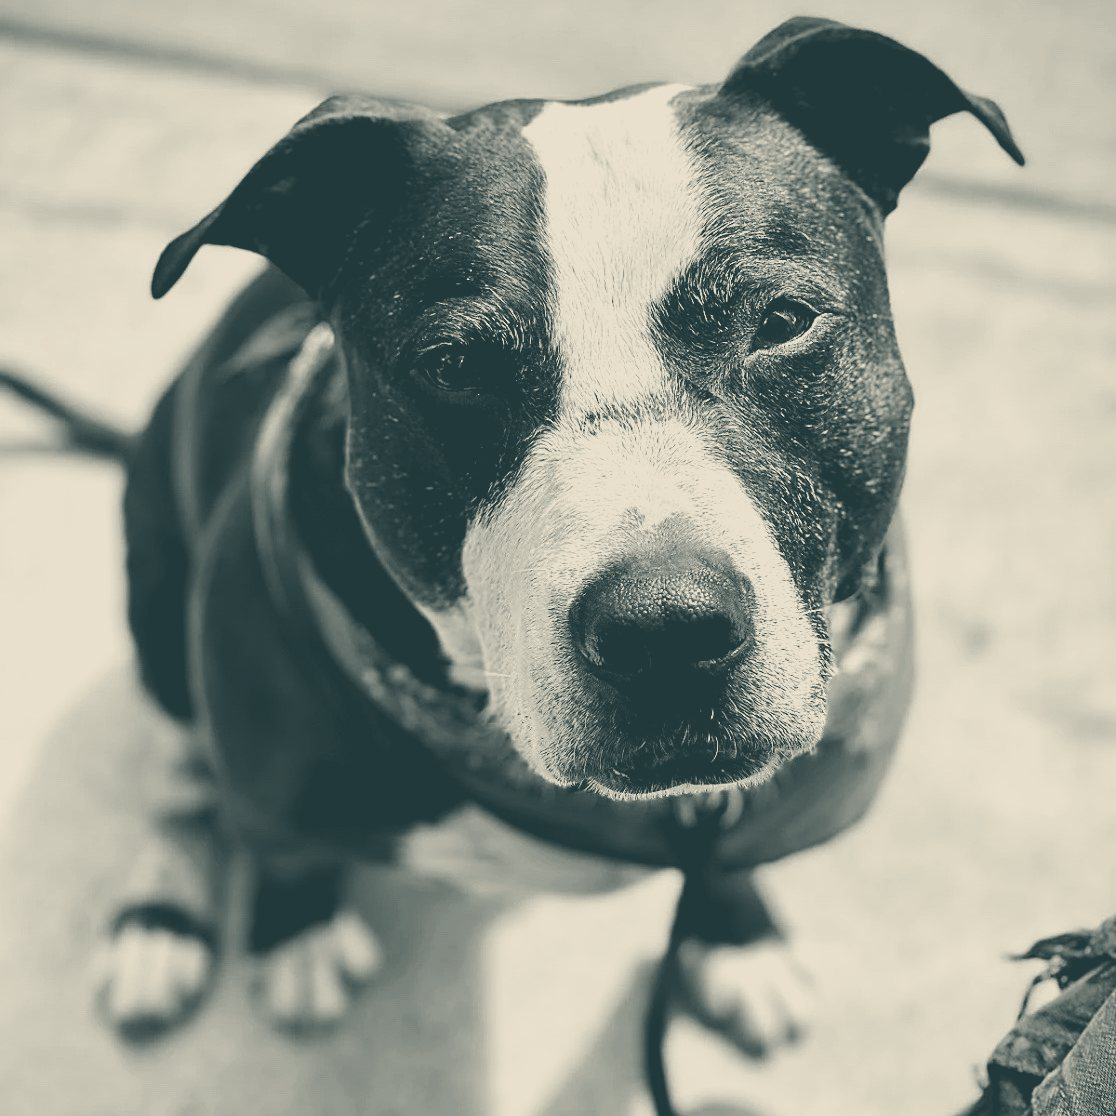
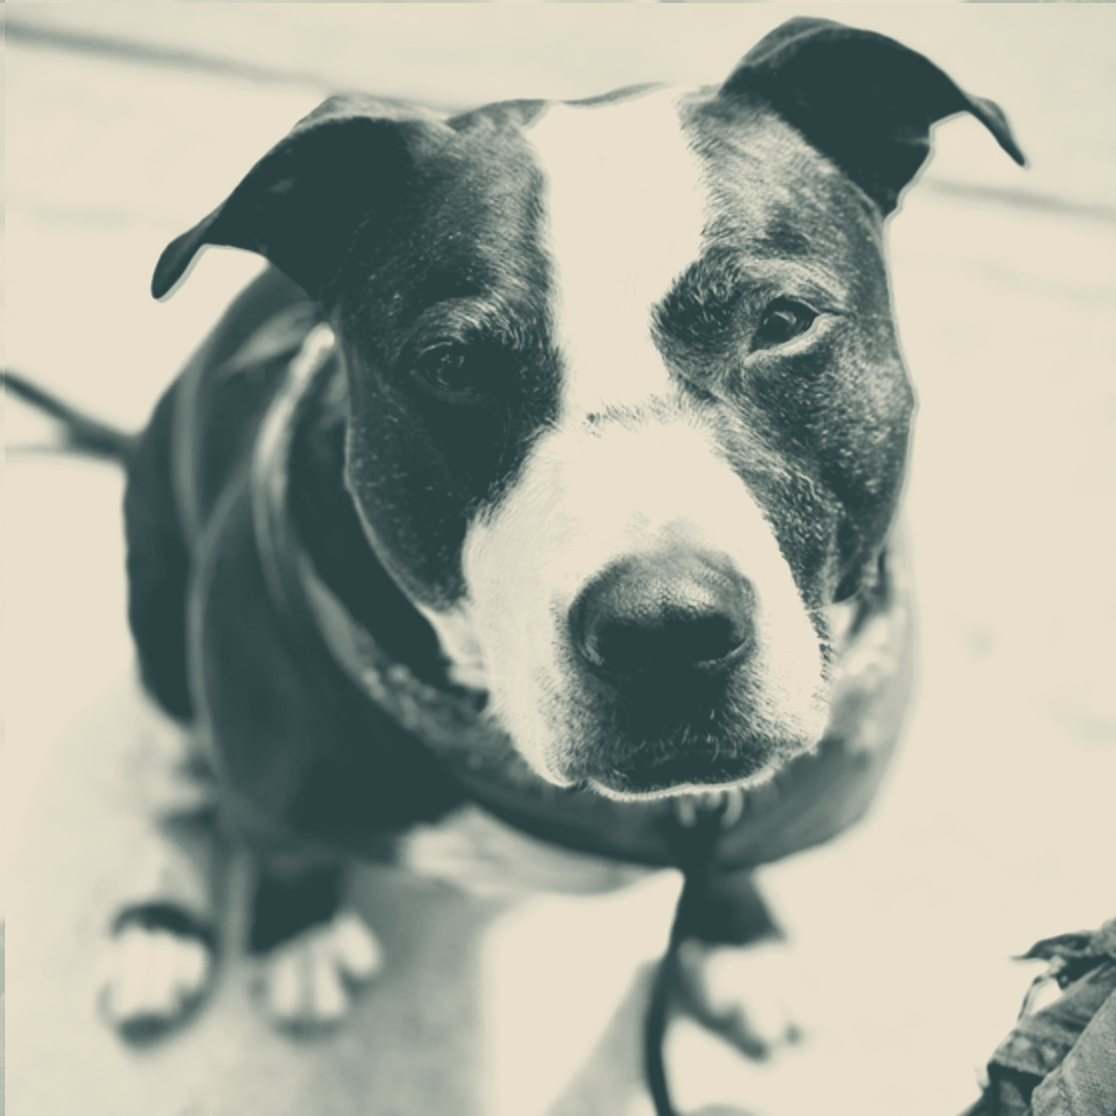
Pieces land whole, Tay printed soft in two plates, quieter play
Each piece's ink and everything on it land together, sweeping from the top
left, and a sheet waits until it is well on screen. Tay's photo is softer with
a second plate a hair out of register. The play mark is a faint ring, and Tay
comes back when his video ends.

diff --git a/index.html b/index.html
@@ -72,11 +72,13 @@
   .photo[hidden] { display: none; }
   .photo:focus-visible { outline: 3px solid var(--text); outline-offset: 4px; }
   .clip { position: absolute; top: -8px; left: -8px; width: calc(100% + 16px); height: calc(100% + 16px); display: block; object-fit: cover; object-position: 50% 38%; }
-  /* Tay plays his video: a small play mark says so, and the film runs inside his piece, cut on the same line */
-  .play { position: absolute; right: clamp(14px, 1.6vw, 24px); bottom: clamp(14px, 1.6vw, 24px); width: clamp(48px, 4.4vw, 64px); aspect-ratio: 1; border-radius: 50%;
-          display: grid; place-items: center; background: var(--night); color: var(--paper); transition: scale .2s cubic-bezier(.2, .8, .2, 1); }
-  .play svg { width: 42%; height: 42%; translate: 6% 0; }
-  .photo:hover .play { scale: 1.08; }
+  /* Tay plays his video, an easter egg: a faint ringed play mark hints at it and firms up when he's pointed at;
+     the film runs inside his piece, cut on the same line, and Tay comes back when it ends */
+  .play { position: absolute; right: clamp(14px, 1.6vw, 24px); bottom: clamp(14px, 1.6vw, 24px); width: clamp(38px, 3.2vw, 48px); aspect-ratio: 1; border-radius: 50%;
+          display: grid; place-items: center; color: var(--night); border: 1.5px solid currentColor; background: color-mix(in srgb, var(--paper) 35%, transparent);
+          opacity: .55; transition: opacity .2s, scale .2s cubic-bezier(.2, .8, .2, 1); }
+  .play svg { width: 38%; height: 38%; translate: 6% 0; }
+  .photo:hover .play, .photo:focus-visible .play { opacity: 1; scale: 1.06; }
   .film { background: var(--night); container-type: size; }
   /* the player keeps its own 16:9 shape, centred, so the bars round it are night ink rather than YouTube's black */
   .film iframe { position: absolute; inset: 0; margin: auto; width: min(100cqw - 16px, (100cqh - 16px) * 16 / 9); height: auto; aspect-ratio: 16 / 9; border: 0; display: block; }
@@ -111,10 +113,13 @@
   .reach .mail:focus-visible { outline: 3px solid var(--text); outline-offset: 6px; }
   .reach p { font-size: clamp(19px, 1.6vw, 23px); }
 
-  /* the pieces land one colour after another, the way a sheet goes through the press once per block */
-  .print.pulling .ink path { animation: pull .7s cubic-bezier(.2, .8, .25, 1) both; animation-delay: var(--d, 0ms); transform-box: fill-box; transform-origin: center; }
-  @keyframes pull { from { opacity: 0; transform: translate(0, -6px) scale(1.012); } 60% { opacity: 1; } to { opacity: 1; transform: none; } }
-  @media (prefers-reduced-motion: reduce) { .print.pulling .ink path { animation: none !important; } .proof::after { display: none; } .btn { transition: none; } }
+  /* the pieces land one after another, the way a sheet goes through the press once per block. A piece's ink
+     and everything printed on it (letters, Tay, words, buttons) land together, so nothing shows before its colour;
+     until a sheet is pulled its pieces wait unseen (only when the script will pull them) */
+  .pull .print:not(.pulling) .ink path, .pull .print:not(.pulling) .blk { opacity: 0; }
+  .print.pulling .ink path, .print.pulling .blk { animation: pull .5s cubic-bezier(.2, .8, .25, 1) both; animation-delay: var(--d, 0ms); }
+  @keyframes pull { from { opacity: 0; transform: translate(0, -6px); } 55% { opacity: 1; } to { opacity: 1; transform: none; } }
+  @media (prefers-reduced-motion: reduce) { .print.pulling .ink path, .print.pulling .blk { animation: none !important; } .proof::after { display: none; } .btn { transition: none; } }
 
   /* phones, and tablets held upright: the name and SAY HELLO stack, so their letters fill the pieces' width */
   @media (max-width: 760px), (orientation: portrait) and (max-width: 1100px) {
@@ -140,6 +145,8 @@
 </style>
 </head>
 <body>
+<script>if (!matchMedia("(prefers-reduced-motion: reduce)").matches && "IntersectionObserver" in window) document.documentElement.classList.add("pull");</script>
+
 <span class="mark" id="top"></span>
 <header class="proof first">
   <h1 class="sr-only">Tay Boy Interactive</h1>
@@ -222,24 +229,32 @@
   function d(pts, ox, oy) { return "M" + pts.map(function (p) { return (p[0] - ox).toFixed(1) + " " + (p[1] - oy).toFixed(1); }).join("L") + "Z"; }
 
   var prints = Array.prototype.slice.call(document.querySelectorAll(".print"));
+  /* where an element sits in its print, by layout alone: a piece mid-landing (translated) still measures where it rests */
+  function at(el, root) { var x = 0, y = 0; while (el && el !== root) { x += el.offsetLeft; y += el.offsetTop; el = el.offsetParent; } return [x, y]; }
   function cut(print, n) {
-    var box = print.getBoundingClientRect(), ink = print.querySelector(".ink");
+    var ink = print.querySelector(".ink"), W = print.clientWidth, H = print.clientHeight;
     var blks = Array.prototype.slice.call(print.querySelectorAll(".blk"));
-    if (!box.width || !box.height) return;
-    var gap = parseFloat(getComputedStyle(print).columnGap) || 10, W = box.width, H = box.height;
+    if (!W || !H) return;
+    var gap = parseFloat(getComputedStyle(print).columnGap) || 10;
     /* close the grid's gaps so the cells tile the print, then let the saw put the paper back */
     var cells = blks.map(function (b) {
-      var r = b.getBoundingClientRect(), x0 = r.left - box.left, y0 = r.top - box.top, x1 = r.right - box.left, y1 = r.bottom - box.top;
+      var p = at(b, print), x0 = p[0], y0 = p[1], x1 = x0 + b.offsetWidth, y1 = y0 + b.offsetHeight;
       return [x0 < 1 ? 0 : x0 - gap / 2, y0 < 1 ? 0 : y0 - gap / 2, x1 > W - 1 ? W : x1 + gap / 2, y1 > H - 1 ? H : y1 + gap / 2];
     });
     var polys = saw(cells, gap, 11 + n * 17, Math.min(5, W / 300));
+    /* the pieces land top-left first, sweeping down and across like the roller, so no half of the sheet waits empty */
+    var lag = cells.map(function (c) { return Math.round((c[1] / H + 0.6 * c[0] / W) * 380) + "ms"; });
     ink.setAttribute("viewBox", "0 0 " + W + " " + H);
-    ink.innerHTML = polys.map(function (p, i) { return '<path style="--d:' + (i * 140) + 'ms" d="' + d(p, 0, 0) + '" fill="' + blks[i].getAttribute("data-ink") + '"/>'; }).join("");
-    /* a picture in a piece is cut along the same line */
+    /* a re-cut (fonts arriving, a resize) reshapes the pieces in place, so a landing in progress carries on */
+    var paths = ink.querySelectorAll("path");
+    if (paths.length === polys.length) polys.forEach(function (p, i) { paths[i].setAttribute("d", d(p, 0, 0)); });
+    else ink.innerHTML = polys.map(function (p, i) { return '<path style="--d:' + lag[i] + '" d="' + d(p, 0, 0) + '" fill="' + blks[i].getAttribute("data-ink") + '"/>'; }).join("");
     blks.forEach(function (b, i) {
+      b.style.setProperty("--d", lag[i]);
+      /* a picture in a piece is cut along the same line */
       Array.prototype.forEach.call(b.querySelectorAll(".clip"), function (img) {
-        var r = img.getBoundingClientRect();
-        img.style.clipPath = 'path("' + d(polys[i], r.left - box.left, r.top - box.top) + '")';
+        var p = at(img, print);
+        img.style.clipPath = 'path("' + d(polys[i], p[0], p[1]) + '")';
       });
     });
     print.classList.add("cut");
@@ -272,30 +287,53 @@
   /* Tay plays his video in his own piece; the player only loads when asked, from YouTube's no-cookie host */
   Array.prototype.forEach.call(document.querySelectorAll(".photo[data-video]"), function (link) {
     var blk = link.parentNode, print = blk.closest(".print");
-    function close() {
+    function close(ended) {
       var film = blk.querySelector(".film"); if (!film) return;
-      film.remove(); link.hidden = false; link.focus();
-      document.removeEventListener("keydown", onKey);
+      var back = film.contains(document.activeElement);
+      film.remove(); link.hidden = false;
+      cut(print, prints.indexOf(print));   /* Tay was measured while hidden, so cut him again */
+      if (back) link.focus(ended === true ? { focusVisible: false } : undefined);
+      document.removeEventListener("keydown", onKey); window.removeEventListener("message", onEnd);
     }
     function onKey(e) { if (e.key === "Escape") close(); }
+    /* when the video finishes, Tay's picture comes back (the player reports its state once asked to) */
+    function onEnd(e) {
+      if (!/youtube/.test(e.origin)) return;
+      var m; try { m = JSON.parse(e.data); } catch (_) { return; }
+      var state = m.event === "onStateChange" ? m.info : m.info && m.info.playerState;
+      if (state === 0) close(true);
+    }
     link.addEventListener("click", function (e) {
       e.preventDefault();
       var film = document.createElement("div");
       film.className = "film clip";
-      film.innerHTML = '<iframe src="https://www.youtube-nocookie.com/embed/' + link.getAttribute("data-video") + '?autoplay=1&playsinline=1&rel=0" title="Tay, on video" allow="autoplay; encrypted-media; picture-in-picture; fullscreen" allowfullscreen></iframe>'
+      film.innerHTML = '<iframe src="https://www.youtube-nocookie.com/embed/' + link.getAttribute("data-video") + '?autoplay=1&playsinline=1&rel=0&enablejsapi=1" title="Tay, on video" allow="autoplay; encrypted-media; picture-in-picture; fullscreen" allowfullscreen></iframe>'
         + '<button class="shut" type="button" aria-label="Close the video"><svg viewBox="0 0 20 20"><path d="M4 4 16 16M16 4 4 16" stroke="currentColor" stroke-width="2.6" stroke-linecap="round"/></svg></button>';
       blk.appendChild(film); link.hidden = true;
-      film.querySelector(".shut").addEventListener("click", close);
-      document.addEventListener("keydown", onKey);
+      film.querySelector(".shut").addEventListener("click", function () { close(); });
+      document.addEventListener("keydown", onKey); window.addEventListener("message", onEnd);
+      var frame = film.querySelector("iframe");
+      frame.addEventListener("load", function () { frame.contentWindow.postMessage(JSON.stringify({ event: "listening", id: 1, channel: "widget" }), "*"); });
       cut(print, prints.indexOf(print));
       film.querySelector(".shut").focus();
     });
   });
 
-  /* each sheet's pieces land as it comes into view */
-  var still = window.matchMedia("(prefers-reduced-motion: reduce)").matches;
-  if (!still && "IntersectionObserver" in window) {
-    var io = new IntersectionObserver(function (es) { es.forEach(function (e) { if (e.isIntersecting) { e.target.classList.add("pulling"); io.unobserve(e.target); } }); }, { threshold: 0.12 });
+  /* each sheet's pieces land once it is well onto the screen, not while its edge is still sliding in; the first
+     waits (briefly) for its type and Tay's photo, so they arrive with their pieces instead of popping in after */
+  if (document.documentElement.classList.contains("pull")) {
+    var ready = function (print) {
+      var waits = Array.prototype.map.call(print.querySelectorAll("img"), function (im) { return im.decode ? im.decode().catch(function () {}) : null; });
+      if (document.fonts) waits.push(document.fonts.ready);
+      return Promise.race([Promise.all(waits), new Promise(function (r) { setTimeout(r, 900); })]);
+    };
+    var io = new IntersectionObserver(function (es) {
+      es.forEach(function (e) {
+        if (!e.isIntersecting) return;
+        io.unobserve(e.target);
+        ready(e.target).then(function () { cut(e.target, prints.indexOf(e.target)); e.target.classList.add("pulling"); });
+      });
+    }, { rootMargin: "0px 0px -40% 0px" });
     prints.forEach(function (p) { io.observe(p); });
   }
 })();
